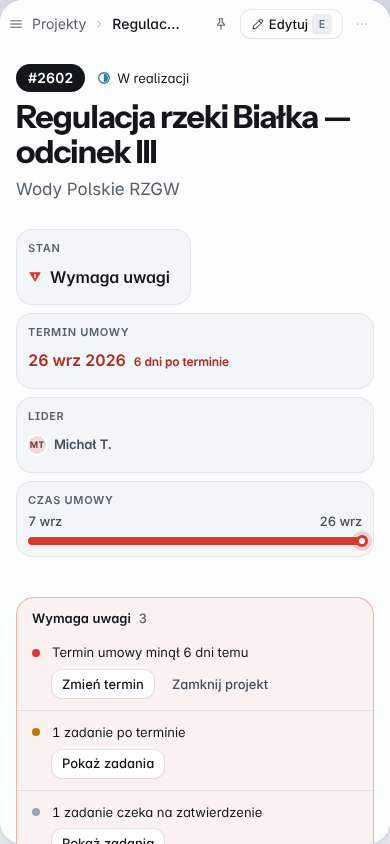
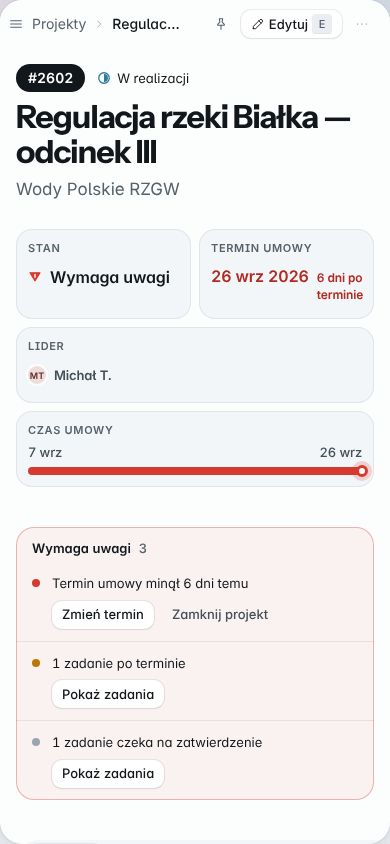
Telefon: kafelki projektu 2 kolumny
Claude-Session: https://claude.ai/code/session_01K4hy1AbaUhrYWgauQ4MMbV

diff --git a/styles/polish.css b/styles/polish.css
@@ -282,3 +282,10 @@ body, .app {
 .palette__input { font-size: 1.125rem; }
 .plan-row__name { font-size: .9375rem; }
 .plan-row--summary .plan-row__name { font-size: .9375rem; font-weight: 500; }
+@media (max-width: 40rem) {
+  .pd-prop:nth-child(2), .pd-prop:nth-child(3) { grid-column: auto; }
+  .pd-prop--ribbon { grid-column: 1 / -1 !important; }
+  .pd-prop:nth-child(1) { grid-column: auto; }
+  .pd-prop:nth-child(2) .pd-prop__sub { display: block; margin-left: 0; }
+}
+@media (max-width: 40rem) { .pd-prop:nth-child(3) { grid-column: 1 / -1; } }
